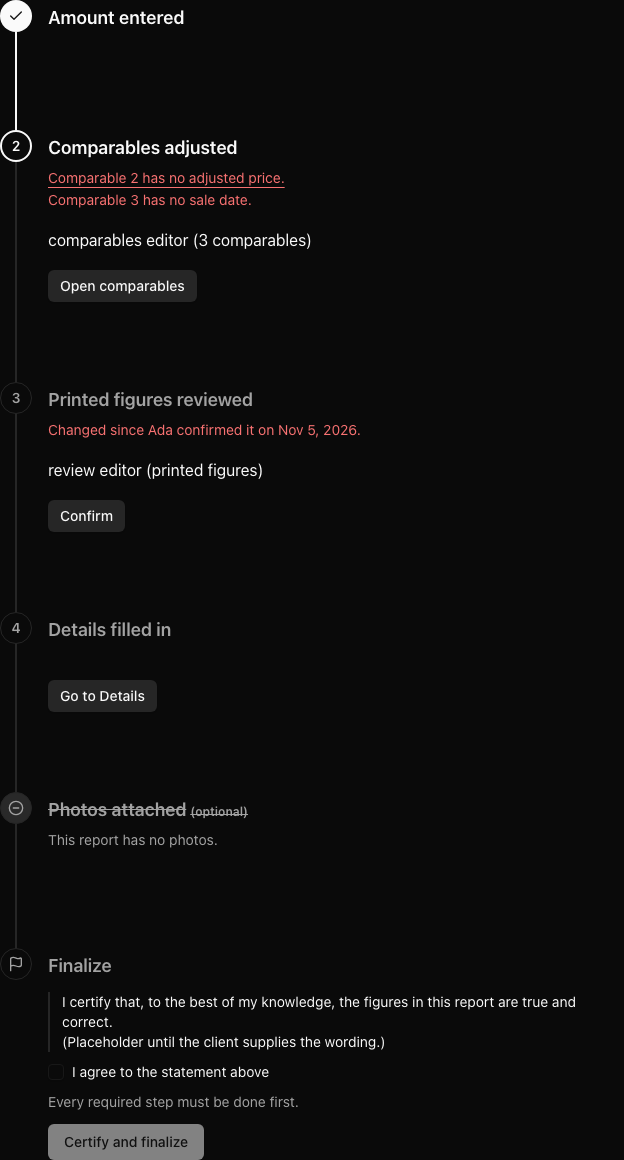
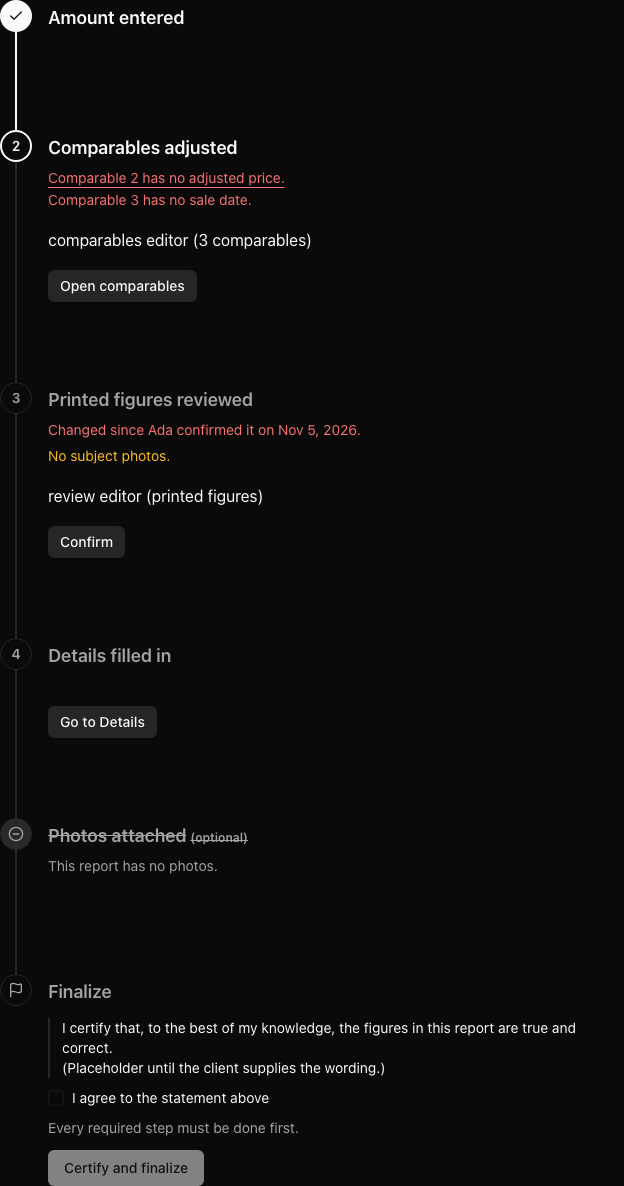
Finalize step warnings: non-blocking notes on a step, drawn by Checklist

diff --git a/browser/src/FinalizeApp.vue b/browser/src/FinalizeApp.vue
@@ -42,6 +42,7 @@ const steps = ref<ChecklistItem[]>([
         state: 'pending',
         required: true,
         reason: 'Changed since Ada confirmed it on Nov 5, 2026.',
+        warnings: [{ message: 'No subject photos.' }],
         errors: [{ message: 'Changed since Ada confirmed it on Nov 5, 2026.' }],
         actions: [
             {

diff --git a/types/kit.d.ts b/types/kit.d.ts
@@ -270,6 +270,7 @@ reason: string | null,
 errors: Tey.Kit.Features.Finalize.Data.GateError[],
 actions: Tey.Kit.Features.Core.Data.Action[],
 confirmation: Tey.Kit.Features.Finalize.Data.GateConfirmation | null,
+warnings: Tey.Kit.Features.Finalize.Data.GateError[],
 };
 }
 }

diff --git a/src/Features/Finalize/Step.php b/src/Features/Finalize/Step.php
@@ -14,6 +14,9 @@ use Illuminate\Database\Eloquent\Model;
  *   The fingerprint returns the **normalised values** the person attests to (amounts in minor units, labels, printed text), never timestamps: a quiet
  *   recalculation that changes nothing they saw must not undo their confirmation. `ready:` is an optional check that must hold before it can be confirmed.
  *
+ * `warnings(fn (Model $subject) => [...])` adds non-blocking notes (an optional photo missing): shown in the step on every read, never blocking Confirm
+ *   or completion. It returns a list of messages or GateErrors.
+ *
  * `optional()` lets the flow complete without it; `detail()` is the line under its label; `confirmLabel()` names its Confirm button.
  */
 final class Step
@@ -23,6 +26,8 @@ final class Step
     private ?string $detail = null;
 
     private string $confirmLabel = 'Confirm';
+
+    private ?Closure $warnings = null;
 
     private function __construct(public readonly string $key, public readonly string $label, public readonly string $kind, private readonly ?Closure $check, private readonly ?Closure $fingerprint) {}
 
@@ -34,6 +39,27 @@ final class Step
     public static function confirmation(string $key, string $label, callable $fingerprint, ?callable $ready = null): self
     {
         return new self(self::key($key), $label, 'confirmation', $ready === null ? null : Closure::fromCallable($ready), Closure::fromCallable($fingerprint));
+    }
+
+    public function warnings(callable $warnings): self
+    {
+        $this->warnings = Closure::fromCallable($warnings);
+
+        return $this;
+    }
+
+    /** @return list<\Tey\Kit\Features\Finalize\Data\GateError> */
+    public function warningsFor(Model $subject): array
+    {
+        if ($this->warnings === null) {
+            return [];
+        }
+        $warnings = ($this->warnings)($subject);
+        if (! is_array($warnings)) {
+            throw new \InvalidArgumentException("Finalize step [{$this->key}]'s warnings return a list of messages or GateErrors.");
+        }
+
+        return array_values(array_map(fn ($warning): Data\GateError => is_string($warning) ? new Data\GateError($warning) : $warning, $warnings));
     }
 
     public function optional(): self

diff --git a/tests/FinalizeCheck.php b/tests/FinalizeCheck.php
@@ -433,6 +433,17 @@ try {
     check($in($workspace, fn () => $gate->snapshot('report.finalize', $report->fresh()))['customer.name'] === 'Robin Vale-Okafor', 'certifying again adopts the related record\'s new values');
     check(app(Registry::class)->capabilityFor('finalize.certify') === 'workspace.finalize' && (new ReflectionClass(FinalizeSubject::class))->getAttributes(Capability::class)[0]->newInstance()->destructive, 'the MCP finalize tool is registered on the capability and asks for confirmation in the chat');
 
+    // A recap flow: one confirmation per section, with a non-blocking warning.
+    $flows->register(Flow::define('report.recap')
+        ->subject('report', fn (string $key, bool $lock): ?Report => Report::query()->where('workspace_id', Workspaces::required()->getKey())->whereKey((int) $key)->first())
+        ->steps([Step::confirmation('photos', 'Photos reviewed', fn (Report $r): array => ['title' => $r->title])->warnings(fn (Report $r): array => ['No subject photos.'])])
+        ->statement(fn (): array => ['version' => 'v1', 'text' => 'I certify the recap.']));
+    $recap = (string) $report->id;
+    $s = $in($workspace, fn () => $gate->state($as('owner'), 'report.recap', $recap));
+    check($step($s, 'photos')->warnings[0]->message === 'No subject photos.' && $step($s, 'photos')->errors === [] && collect($step($s, 'photos')->actions)->contains('key', 'confirm-photos'), 'a warning shows in the step and Confirm stays offered');
+    $s = $in($workspace, fn () => $gate->confirm($as('member'), 'report.recap', $recap, 'photos', $s->progress->revision));
+    check($s->progress->complete && $step($s, 'photos')->state === 'done' && $step($s, 'photos')->warnings[0]->message === 'No subject photos.', 'warnings never hold the gate back: confirmed, it is complete with the warning still shown');
+
     echo "Finalize checks on SQLite memory with real Concierge, spatie teams and Pennant; HTTP through router dispatch without the global middleware stack. The MCP tools are checked by registration and the operation's mcp channel, not over the MCP transport. No browser: the kit's Vue pieces are not in this lineage yet.\n";
 } catch (Throwable $error) {
     fwrite(STDERR, (string) $error."\n");

diff --git a/src/Features/Finalize/Operations/FinalizeGate.php b/src/Features/Finalize/Operations/FinalizeGate.php
@@ -255,7 +255,8 @@ final class FinalizeGate
             }
             $state = $row['state'] === 'pending' && $current !== null && $current['step']->key === $stepKey && ! $finalized ? 'active' : $row['state'];
             $steps[] = new GateStep($stepKey, $step->label, $step->kind, $state, $step->required(), $step->describe() ?? $outcome->detail, $reason, $errors, $finalized ? [] : $actions,
-                $latest === null ? null : new GateConfirmation($names[$latest->confirmed_by] ?? 'Someone', $latest->confirmed_at->toIso8601String(), $stale));
+                $latest === null ? null : new GateConfirmation($names[$latest->confirmed_by] ?? 'Someone', $latest->confirmed_at->toIso8601String(), $stale),
+                $row['state'] === 'skipped' ? [] : $step->warningsFor($subject));
             $done += in_array($row['state'], ['done', 'skipped'], true) ? 1 : 0;
             $required += $step->required() ? 1 : 0;
             $requiredDone += $step->required() && in_array($row['state'], ['done', 'skipped'], true) ? 1 : 0;

diff --git a/src/Features/Finalize/Data/GateStep.php b/src/Features/Finalize/Data/GateStep.php
@@ -11,7 +11,7 @@ use Tey\Kit\Features\Core\Data\Action;
 /**
  * One step of a finalize gate, as the server computed it. A superset of the kit's ChecklistItem, so the kit `Checklist` draws it: `kind` is check,
  * confirmation or certify; `errors` are the reasons it does not hold, each with an optional field and fix link; `actions` are its fix as descriptors
- * (Confirm, a link, an anchor), already gated; `confirmation` is the latest one, if any.
+ * (Confirm, a link, an anchor), already gated; `confirmation` is the latest one, if any; `warnings` are non-blocking notes that never hold the step back.
  */
 #[TypeScript]
 final class GateStep extends Data
@@ -31,5 +31,7 @@ final class GateStep extends Data
         #[DataCollectionOf(GateError::class)] public array $errors,
         #[DataCollectionOf(Action::class)] public array $actions,
         public ?GateConfirmation $confirmation,
+        /** @var list<GateError> */
+        #[DataCollectionOf(GateError::class)] public array $warnings = [],
     ) {}
 }

diff --git a/src/Catalog.php b/src/Catalog.php
@@ -15,7 +15,7 @@ final readonly class Catalog
 {
     /** Selectable features in canonical order, with the pinned identity of each feature's manifest and stubs. */
     private const FEATURES = [
-        'core' => 'sha256:3f8839d82bbf9043e0ce21aae73cca42a8983d7f68ae9aadb0ce9a15a5197089',
+        'core' => 'sha256:6300407eb8c826d3ebabccdecb1c0a1ff1d6d506314792820d2ff20e7b632574',
         'workspaces' => 'sha256:56912cc3486c206ac1167b2c3d4995407c80052779254bab3777782a87e6eafd',
         'access' => 'sha256:98af2e26dd12f50c7e65dcf10e9692afdbc611248571e12d379e0cc7405a2de6',
         'settings' => 'sha256:698d91e7f8eca07afeacf24ae7f52ce710103c4ecf2afe2234b3bc435eec25ac',

diff --git a/tests/StarterCatalogCheck.php b/tests/StarterCatalogCheck.php
@@ -21,7 +21,7 @@ $loader->addPsr4('Tey\\Kit\\', dirname(__DIR__).'/src', true);
 
 /** Kept in step with Catalog::FEATURES; a changed manifest or stub must be repinned in both places on purpose. */
 const PINS = [
-    'core' => 'sha256:3f8839d82bbf9043e0ce21aae73cca42a8983d7f68ae9aadb0ce9a15a5197089',
+    'core' => 'sha256:6300407eb8c826d3ebabccdecb1c0a1ff1d6d506314792820d2ff20e7b632574',
     'workspaces' => 'sha256:56912cc3486c206ac1167b2c3d4995407c80052779254bab3777782a87e6eafd',
     'access' => 'sha256:98af2e26dd12f50c7e65dcf10e9692afdbc611248571e12d379e0cc7405a2de6',
     'settings' => 'sha256:698d91e7f8eca07afeacf24ae7f52ce710103c4ecf2afe2234b3bc435eec25ac',

diff --git a/CHANGELOG.md b/CHANGELOG.md
@@ -5,6 +5,7 @@
 ### Added
 
 - **`Checklist` `#body="{ item }"` slot**: a step's own content, such as an inline editor, under its label and errors and above its fixes, in both variants. Map step keys to components in an object (`<component :is="editors[item.key]" v-if="editors[item.key]" v-bind="steps[item.key]" />`) rather than branching on the key. It renders for every step, done ones included; hide it there yourself if you want to.
+- **Finalize step warnings**: `Step::…->warnings(fn ($subject) => ['No subject photos.'])` adds non-blocking notes, sent as `GateStep.warnings` and drawn by `Checklist` (`ChecklistItem.warnings`) in the warning colour. They never block Confirm or completion.
 
 ## v0.7.61
 
